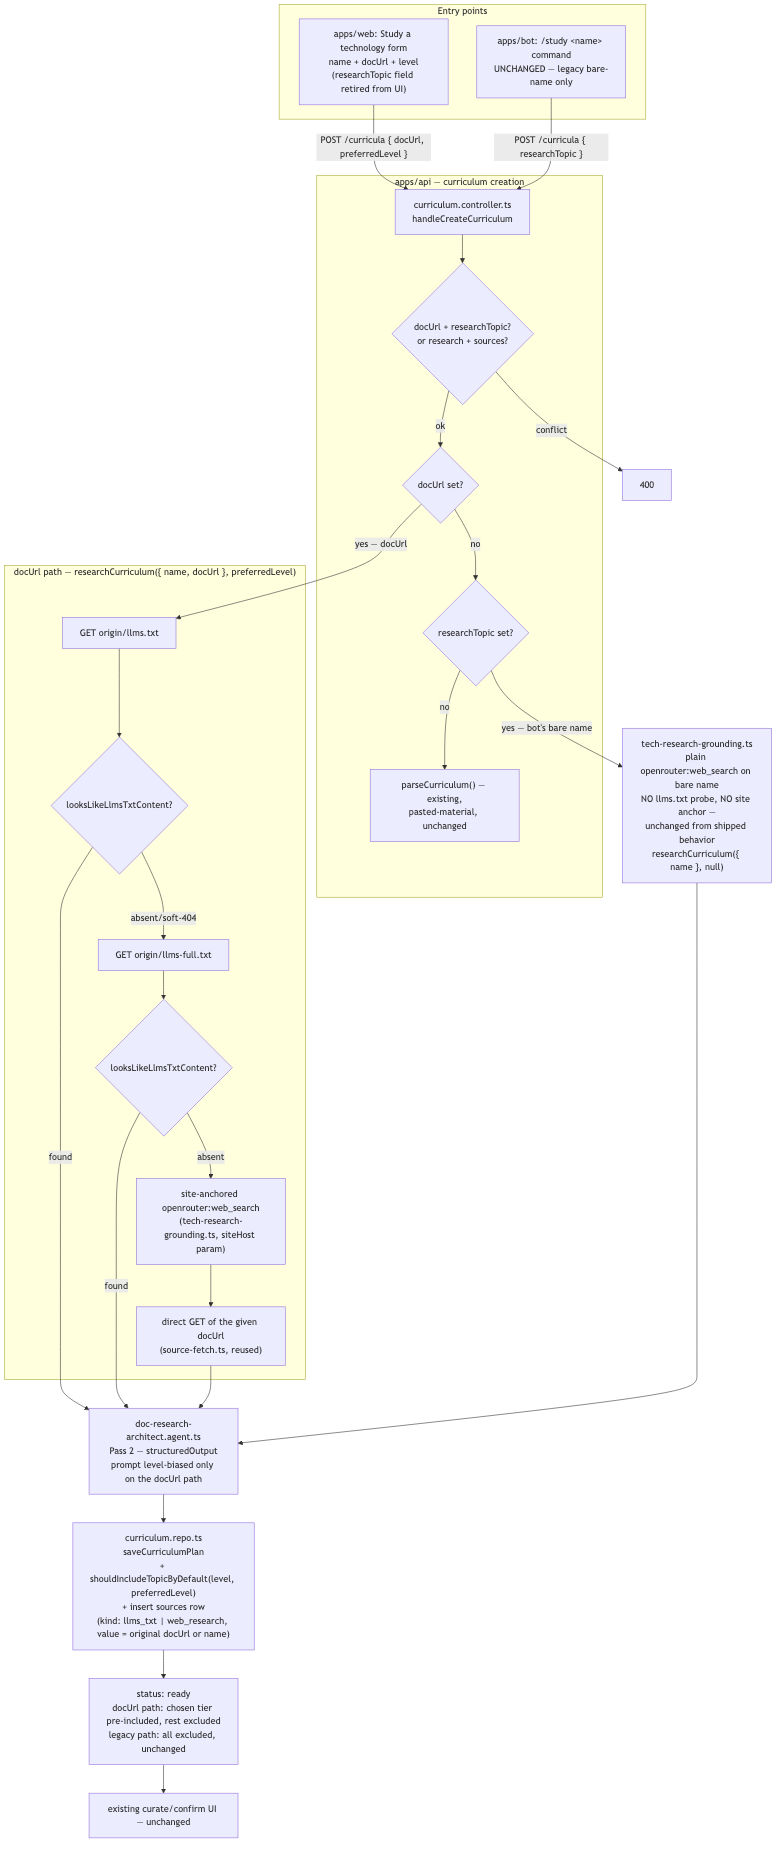
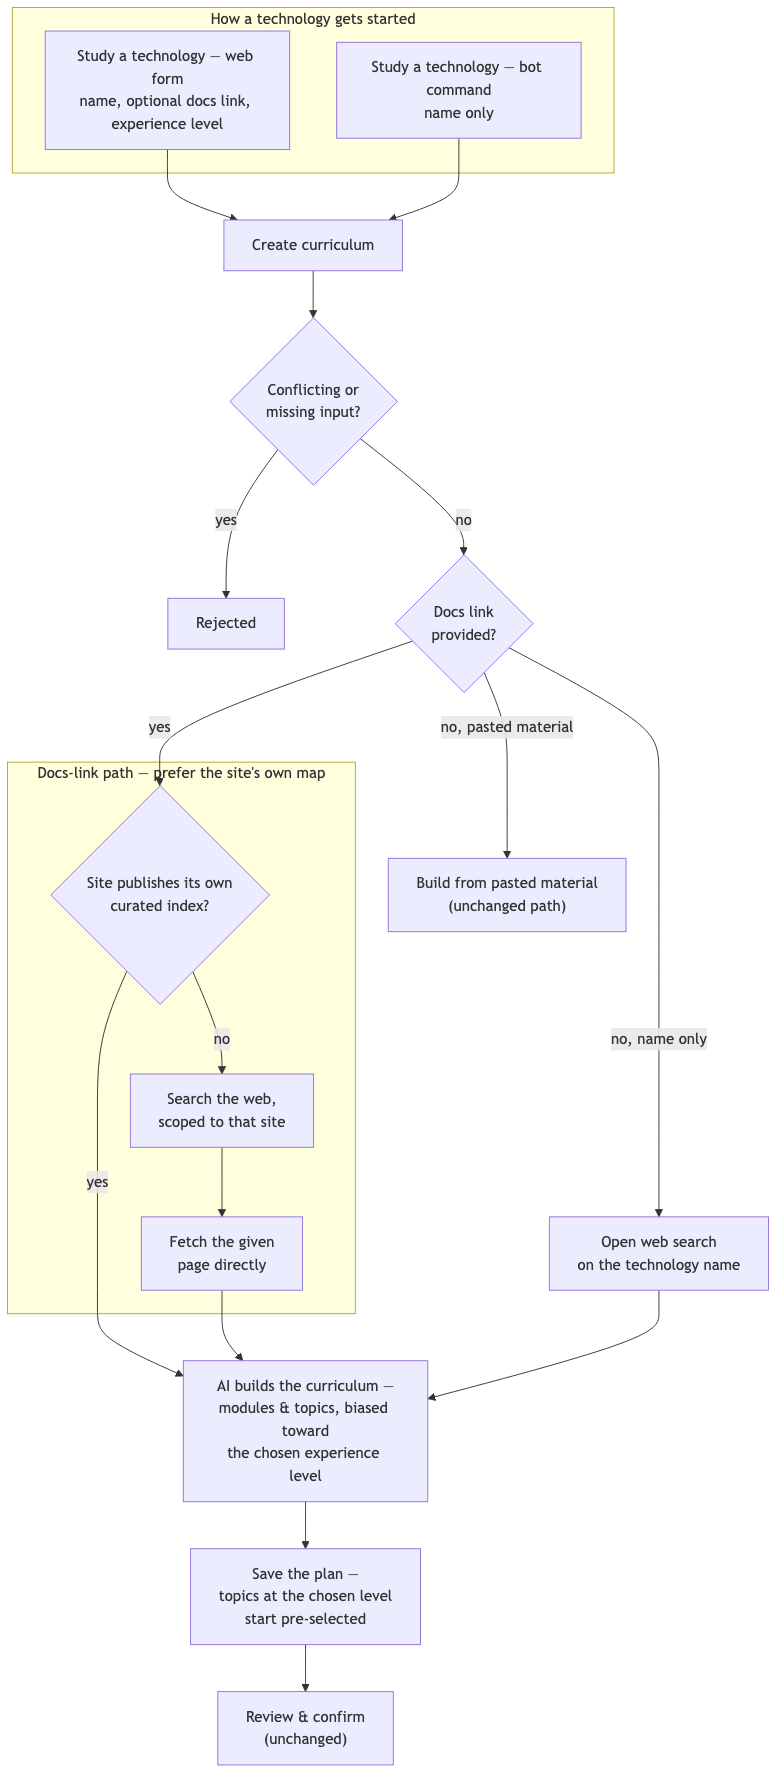
Simplify architecture diagrams to component level
Drop file/function-level detail from the doc-link-technology-intake
and use-case-study-mode diagrams in favor of the actual process flow.

diff --git a/docs/architecture/use-case-study-mode.md b/docs/architecture/use-case-study-mode.md
@@ -92,63 +92,48 @@ level is not persisted — it only affects the prompt bias and the initial
 
 ```mermaid
 flowchart TB
-  subgraph Entry["Entry points"]
-    WebForm["apps/web: Study a technology form<br/>name + docUrl + level<br/>(researchTopic field retired from UI)"]
-    BotCmd["apps/bot: /study &lt;name&gt; command<br/>UNCHANGED — legacy bare-name only"]
+  subgraph Entry["How a technology gets started"]
+    WebForm["Study a technology — web form<br/>name, optional docs link, experience level"]
+    BotCmd["Study a technology — bot command<br/>name only"]
   end
 
-  subgraph API["apps/api — curriculum creation"]
-    Controller["curriculum.controller.ts<br/>handleCreateCurriculum"]
-    Conflict{"docUrl + researchTopic?<br/>or research + sources?"}
-    Precedence{"docUrl set?"}
-    Legacy{"researchTopic set?"}
-    Parse["parseCurriculum() — existing,<br/>pasted-material, unchanged"]
+  Create["Create curriculum"]
+  ConflictCheck{"Conflicting or<br/>missing input?"}
+  Reject["Rejected"]
+  HasDocsLink{"Docs link<br/>provided?"}
+
+  subgraph DocsPath["Docs-link path — prefer the site's own map"]
+    OwnIndex{"Site publishes its own<br/>curated index?"}
+    SiteSearch["Search the web,<br/>scoped to that site"]
+    FetchPage["Fetch the given<br/>page directly"]
   end
 
-  subgraph UrlPath["docUrl path — researchCurriculum({ name, docUrl }, preferredLevel)"]
-    Probe1["GET origin/llms.txt"]
-    Check1{"looksLikeLlmsTxtContent?"}
-    Probe2["GET origin/llms-full.txt"]
-    Check2{"looksLikeLlmsTxtContent?"}
-    SiteSearch["site-anchored openrouter:web_search<br/>(tech-research-grounding.ts, siteHost param)"]
-    PageFetch["direct GET of the given docUrl<br/>(source-fetch.ts, reused)"]
-  end
+  NameSearch["Open web search<br/>on the technology name"]
+  PastedMaterial["Build from pasted material<br/>(unchanged path)"]
 
-  LegacyGround["tech-research-grounding.ts<br/>plain openrouter:web_search on bare name<br/>NO llms.txt probe, NO site anchor —<br/>unchanged from shipped behavior<br/>researchCurriculum({ name }, null)"]
+  Synthesize["AI builds the curriculum —<br/>modules & topics, biased toward<br/>the chosen experience level"]
+  Save["Save the plan —<br/>topics at the chosen level<br/>start pre-selected"]
+  Review["Review & confirm<br/>(unchanged)"]
+  Study["Study the confirmed curriculum<br/>(unchanged)"]
 
-  Architect["doc-research-architect.agent.ts<br/>Pass 2 — structuredOutput<br/>prompt level-biased only on the docUrl path"]
-  Repo["curriculum.repo.ts<br/>saveCurriculumPlan<br/>+ shouldIncludeTopicByDefault(level, preferredLevel)<br/>+ insert sources row<br/>(kind: llms_txt | web_research, value = original docUrl or name)"]
-  Ready["status: ready<br/>docUrl path: chosen tier pre-included, rest excluded<br/>legacy path: all excluded, unchanged"]
-  Confirm["existing curate/confirm UI — unchanged"]
-  Confirmed["status: confirmed"]
-  Existing["existing probe-session /<br/>Socratic study mechanics<br/>(fully unchanged)"]
+  WebForm --> Create
+  BotCmd --> Create
+  Create --> ConflictCheck
+  ConflictCheck -->|"yes"| Reject
+  ConflictCheck -->|"no"| HasDocsLink
+  HasDocsLink -->|"yes"| OwnIndex
+  HasDocsLink -->|"no, name only"| NameSearch
+  HasDocsLink -->|"no, pasted material"| PastedMaterial
 
-  WebForm -->|"POST /curricula { docUrl, preferredLevel }"| Controller
-  BotCmd -->|"POST /curricula { researchTopic }"| Controller
-  Controller --> Conflict
-  Conflict -->|"conflict"| Reject["400"]
-  Conflict -->|"ok"| Precedence
-  Precedence -->|"yes — docUrl"| Probe1
-  Precedence -->|"no"| Legacy
-  Legacy -->|"yes — bot's bare name"| LegacyGround
-  Legacy -->|"no"| Parse
+  OwnIndex -->|"yes"| Synthesize
+  OwnIndex -->|"no"| SiteSearch
+  SiteSearch --> FetchPage
+  FetchPage --> Synthesize
+  NameSearch --> Synthesize
 
-  Probe1 --> Check1
-  Check1 -->|"found"| Architect
-  Check1 -->|"absent/soft-404"| Probe2
-  Probe2 --> Check2
-  Check2 -->|"found"| Architect
-  Check2 -->|"absent"| SiteSearch
-  SiteSearch --> PageFetch
-  PageFetch --> Architect
-
-  LegacyGround --> Architect
-
-  Architect --> Repo
-  Repo --> Ready
-  Ready --> Confirm
-  Confirm --> Confirmed
-  Confirmed -->|"start topic/module"| Existing
+  Synthesize --> Save
+  Save --> Review
+  Review --> Study
 ```
 
 ![architecture diagram](./assets/use-case-study-mode.png)

diff --git a/docs/architecture/doc-link-technology-intake.md b/docs/architecture/doc-link-technology-intake.md
@@ -32,59 +32,46 @@ curriculum gets *seeded*.
 
 ```mermaid
 flowchart TB
-  subgraph Entry["Entry points"]
-    WebForm["apps/web: Study a technology form<br/>name + docUrl + level<br/>(researchTopic field retired from UI)"]
-    BotCmd["apps/bot: /study &lt;name&gt; command<br/>UNCHANGED — legacy bare-name only"]
+  subgraph Entry["How a technology gets started"]
+    WebForm["Study a technology — web form<br/>name, optional docs link, experience level"]
+    BotCmd["Study a technology — bot command<br/>name only"]
   end
 
-  subgraph API["apps/api — curriculum creation"]
-    Controller["curriculum.controller.ts<br/>handleCreateCurriculum"]
-    Conflict{"docUrl + researchTopic?<br/>or research + sources?"}
-    Precedence{"docUrl set?"}
-    Legacy{"researchTopic set?"}
-    Parse["parseCurriculum() — existing,<br/>pasted-material, unchanged"]
+  Create["Create curriculum"]
+  ConflictCheck{"Conflicting or<br/>missing input?"}
+  Reject["Rejected"]
+  HasDocsLink{"Docs link<br/>provided?"}
+
+  subgraph DocsPath["Docs-link path — prefer the site's own map"]
+    OwnIndex{"Site publishes its own<br/>curated index?"}
+    SiteSearch["Search the web,<br/>scoped to that site"]
+    FetchPage["Fetch the given<br/>page directly"]
   end
 
-  subgraph UrlPath["docUrl path — researchCurriculum({ name, docUrl }, preferredLevel)"]
-    Probe1["GET origin/llms.txt"]
-    Check1{"looksLikeLlmsTxtContent?"}
-    Probe2["GET origin/llms-full.txt"]
-    Check2{"looksLikeLlmsTxtContent?"}
-    SiteSearch["site-anchored openrouter:web_search<br/>(tech-research-grounding.ts, siteHost param)"]
-    PageFetch["direct GET of the given docUrl<br/>(source-fetch.ts, reused)"]
-  end
+  NameSearch["Open web search<br/>on the technology name"]
+  PastedMaterial["Build from pasted material<br/>(unchanged path)"]
 
-  LegacyGround["tech-research-grounding.ts<br/>plain openrouter:web_search on bare name<br/>NO llms.txt probe, NO site anchor —<br/>unchanged from shipped behavior<br/>researchCurriculum({ name }, null)"]
+  Synthesize["AI builds the curriculum —<br/>modules & topics, biased toward<br/>the chosen experience level"]
+  Save["Save the plan —<br/>topics at the chosen level<br/>start pre-selected"]
+  Review["Review & confirm<br/>(unchanged)"]
 
-  Architect["doc-research-architect.agent.ts<br/>Pass 2 — structuredOutput<br/>prompt level-biased only on the docUrl path"]
-  Repo["curriculum.repo.ts<br/>saveCurriculumPlan<br/>+ shouldIncludeTopicByDefault(level, preferredLevel)<br/>+ insert sources row<br/>(kind: llms_txt | web_research, value = original docUrl or name)"]
-  Ready["status: ready<br/>docUrl path: chosen tier pre-included, rest excluded<br/>legacy path: all excluded, unchanged"]
-  Confirm["existing curate/confirm UI — unchanged"]
+  WebForm --> Create
+  BotCmd --> Create
+  Create --> ConflictCheck
+  ConflictCheck -->|"yes"| Reject
+  ConflictCheck -->|"no"| HasDocsLink
+  HasDocsLink -->|"yes"| OwnIndex
+  HasDocsLink -->|"no, name only"| NameSearch
+  HasDocsLink -->|"no, pasted material"| PastedMaterial
 
-  WebForm -->|"POST /curricula { docUrl, preferredLevel }"| Controller
-  BotCmd -->|"POST /curricula { researchTopic }"| Controller
-  Controller --> Conflict
-  Conflict -->|"conflict"| Reject["400"]
-  Conflict -->|"ok"| Precedence
-  Precedence -->|"yes — docUrl"| Probe1
-  Precedence -->|"no"| Legacy
-  Legacy -->|"yes — bot's bare name"| LegacyGround
-  Legacy -->|"no"| Parse
+  OwnIndex -->|"yes"| Synthesize
+  OwnIndex -->|"no"| SiteSearch
+  SiteSearch --> FetchPage
+  FetchPage --> Synthesize
+  NameSearch --> Synthesize
 
-  Probe1 --> Check1
-  Check1 -->|"found"| Architect
-  Check1 -->|"absent/soft-404"| Probe2
-  Probe2 --> Check2
-  Check2 -->|"found"| Architect
-  Check2 -->|"absent"| SiteSearch
-  SiteSearch --> PageFetch
-  PageFetch --> Architect
-
-  LegacyGround --> Architect
-
-  Architect --> Repo
-  Repo --> Ready
-  Ready --> Confirm
+  Synthesize --> Save
+  Save --> Review
 ```
 ![diagram](./assets/doc-link-technology-intake.png)
 
